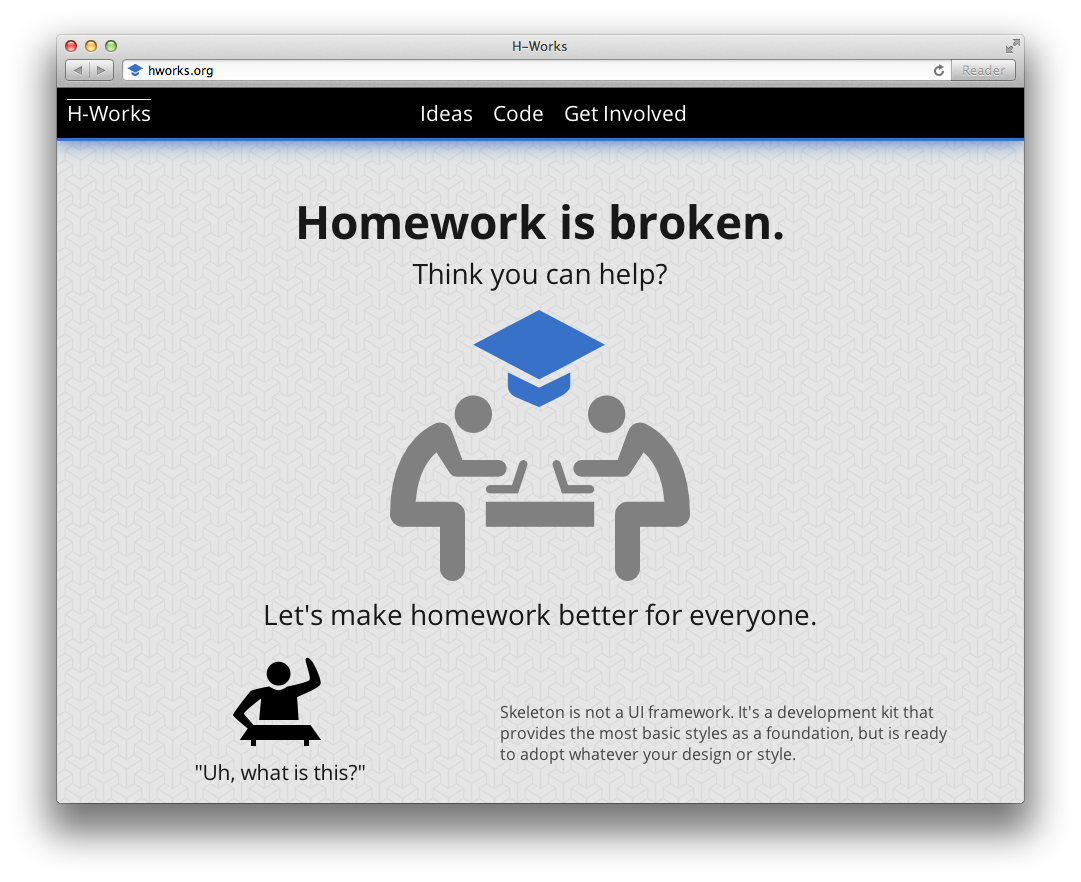
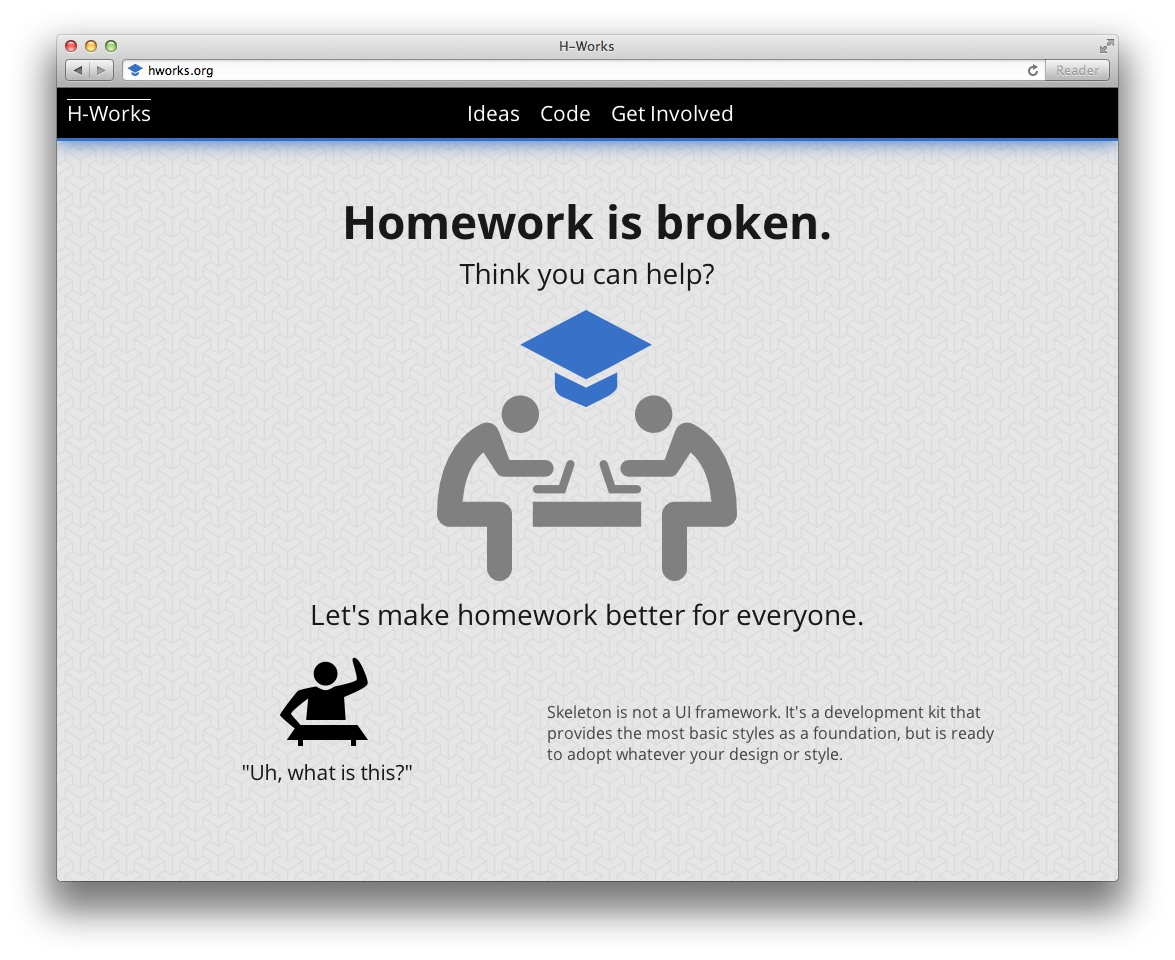
H-Works -> HWorks, work on copy.

Changed region(s): [[0.0305, 0.0306, 0.9769, 0.9184], [0.4579, 0.7347, 0.8853, 0.8571]]

diff --git a/index.html b/index.html
@@ -1,6 +1,6 @@
-<!DOCTYPE html><!--[if lt IE 7]><html class="ie ie6"></html><![endif]--><!--[if IE 7]><html class="ie ie7"></html><![endif]--><!--[if IE 8]><html class="ie ie8"></html><![endif]--><!--[if (gte IE 9)|!(IE)]]><html></html><![endif]--><head><meta charset="utf-8"><title>H-Works</title><meta name="description" content="Let's make homework work for us."><meta name="viewport" content="width=device-width, initial-scale=1, maximum-scale=1"><link rel="stylesheet" type="text/css" href="http://fonts.googleapis.com/css?family=Open+Sans:400italic,400,700"><link rel="stylesheet" href="styles/base.css"><link rel="stylesheet" href="styles/skeleton.css"><link rel="stylesheet" href="styles/layout.css"><link rel="stylesheet" href="styles/app.css"><link rel="icon" type="image/x-icon" href="favicon.ico"><!--[if lt IE 9]><script src="http://html5shim.googlecode.com/svn/trunk/html5.js"></script><![endif]--><style>a[href="index.html"] {
+<!DOCTYPE html><!--[if lt IE 7]><html class="ie ie6"></html><![endif]--><!--[if IE 7]><html class="ie ie7"></html><![endif]--><!--[if IE 8]><html class="ie ie8"></html><![endif]--><!--[if (gte IE 9)|!(IE)]]><html></html><![endif]--><head><meta charset="utf-8"><title>HWorks</title><meta name="description" content="Let's make homework work for us."><meta name="viewport" content="width=device-width, initial-scale=1, maximum-scale=1"><link rel="stylesheet" type="text/css" href="http://fonts.googleapis.com/css?family=Open+Sans:400italic,400,700"><link rel="stylesheet" href="styles/base.css"><link rel="stylesheet" href="styles/skeleton.css"><link rel="stylesheet" href="styles/layout.css"><link rel="stylesheet" href="styles/app.css"><link rel="icon" type="image/x-icon" href="favicon.ico"><!--[if lt IE 9]><script src="http://html5shim.googlecode.com/svn/trunk/html5.js"></script><![endif]--><style>a[href="index.html"] {
   text-decoration: overline !important;
 }
-</style><body><section id="navbar" class="center"><h4 id="navbar-brand" class="hidden-mobile"><a href="index.html">H-Works</a></h4><li><h4><a href="ideas.html">Ideas</a></h4></li><li><h4><a href="code.html">Code</a></h4></li><li><h4><a href="get_involved.html">Get Involved</a></h4></li></section><div class="container"><div class="sixteen columns center add-bottom"><h1 style="margin-top: 60px" class="half-bottom">Homework is broken.</h1><h3 class="add-bottom">Think you can help?</h3><img src="logo-medium.png" alt="H-Works Logo" class="half-bottom"><h3 class="add-bottom">Let's make homework better for everyone.</h3><div class="row"><div class="seven columns tile"><img src="hand-raise.svg" alt=""><h4>"Uh, what is this?"</h4></div><div class="eight columns"><p style="text-align: left; padding-top: 50px; font-size: 16px">Skeleton is not a UI framework. It's a development kit that provides
-the most basic styles as a foundation, but is ready to adopt whatever
-your design or style.</p></div></div></div><div id="footer" class="sixteen columns center"><p>Icons from <a href="http://thenounproject.com/">The Noun Project</a>, including <a href="http://thenounproject.com/garrettnelson">Garrett Nelson</a>.<br>&copy; The H-Works Collaborative. </p></div></div></body></head>
+</style><body><section id="navbar" class="center"><h4 id="navbar-brand" class="hidden-mobile"><a href="index.html">HWorks</a></h4><li><h4><a href="ideas.html">Ideas</a></h4></li><li><h4><a href="code.html">Code</a></h4></li><li><h4><a href="get_involved.html">Get Involved</a></h4></li></section><div class="container"><div class="sixteen columns center add-bottom"><h1 style="margin-top: 60px" class="half-bottom">Homework is broken.</h1><h3 class="add-bottom">Think you can help?</h3><img src="logo-medium.png" alt="H-Works Logo" class="half-bottom"><h3 class="add-bottom">Let's make homework better for everyone.</h3><div class="row"><div class="seven columns tile"><img src="hand-raise.svg" alt=""><h4>"Uh, what is this?"</h4></div><div class="eight columns"><p style="text-align: left; padding-top: 50px; font-size: 16px">It's the 21st century. <strong>Digital distractions </strong>run rampant in the lives
+of students and professionals alike, and <strong>time management </strong>is more important than
+ever before. It's about time we started building <strong>tools for our kids to succeed.</strong></p></div></div></div><div id="footer" class="sixteen columns center"><p>Icons from <a href="http://thenounproject.com/">The Noun Project</a>, including <a href="http://thenounproject.com/garrettnelson">Garrett Nelson</a>.<br>&copy; The HWorks Collaborative. </p></div></div></body></head>

diff --git a/get_involved.html b/get_involved.html
@@ -1,8 +1,8 @@
-<!DOCTYPE html><!--[if lt IE 7]><html class="ie ie6"></html><![endif]--><!--[if IE 7]><html class="ie ie7"></html><![endif]--><!--[if IE 8]><html class="ie ie8"></html><![endif]--><!--[if (gte IE 9)|!(IE)]]><html></html><![endif]--><head><meta charset="utf-8"><title>H-Works</title><meta name="description" content="Let's make homework work for us."><meta name="viewport" content="width=device-width, initial-scale=1, maximum-scale=1"><link rel="stylesheet" type="text/css" href="http://fonts.googleapis.com/css?family=Open+Sans:400italic,400,700"><link rel="stylesheet" href="styles/base.css"><link rel="stylesheet" href="styles/skeleton.css"><link rel="stylesheet" href="styles/layout.css"><link rel="stylesheet" href="styles/app.css"><link rel="icon" type="image/x-icon" href="favicon.ico"><!--[if lt IE 9]><script src="http://html5shim.googlecode.com/svn/trunk/html5.js"></script><![endif]--><style>a[href="get_involved.html"] {
+<!DOCTYPE html><!--[if lt IE 7]><html class="ie ie6"></html><![endif]--><!--[if IE 7]><html class="ie ie7"></html><![endif]--><!--[if IE 8]><html class="ie ie8"></html><![endif]--><!--[if (gte IE 9)|!(IE)]]><html></html><![endif]--><head><meta charset="utf-8"><title>HWorks</title><meta name="description" content="Let's make homework work for us."><meta name="viewport" content="width=device-width, initial-scale=1, maximum-scale=1"><link rel="stylesheet" type="text/css" href="http://fonts.googleapis.com/css?family=Open+Sans:400italic,400,700"><link rel="stylesheet" href="styles/base.css"><link rel="stylesheet" href="styles/skeleton.css"><link rel="stylesheet" href="styles/layout.css"><link rel="stylesheet" href="styles/app.css"><link rel="icon" type="image/x-icon" href="favicon.ico"><!--[if lt IE 9]><script src="http://html5shim.googlecode.com/svn/trunk/html5.js"></script><![endif]--><style>a[href="get_involved.html"] {
   text-decoration: overline !important;
 }
-</style><body><section id="navbar" class="center"><h4 id="navbar-brand" class="hidden-mobile"><a href="index.html">H-Works</a></h4><li><h4><a href="ideas.html">Ideas</a></h4></li><li><h4><a href="code.html">Code</a></h4></li><li><h4><a href="get_involved.html">Get Involved</a></h4></li></section><div class="container"><div class="sixteen columns center"><h1 style="margin-top: 60px" class="half-bottom">Homework is broken.</h1><h3 class="add-bottom">Think you can help?</h3><img src="logo-medium.png" alt="H-Works Logo" class="no-bottom"><h1>Join the collective!</h1></div><div class="eight columns tile"><img src="education.svg" alt=""><h3>Education</h3><p>Skeleton is not a UI framework. It's a development kit that provides
+</style><body><section id="navbar" class="center"><h4 id="navbar-brand" class="hidden-mobile"><a href="index.html">HWorks</a></h4><li><h4><a href="ideas.html">Ideas</a></h4></li><li><h4><a href="code.html">Code</a></h4></li><li><h4><a href="get_involved.html">Get Involved</a></h4></li></section><div class="container"><div class="sixteen columns center"><h1 style="margin-top: 60px" class="half-bottom">Homework is broken.</h1><h3 class="add-bottom">Think you can help?</h3><img src="logo-medium.png" alt="H-Works Logo" class="no-bottom"><h1>Join the collective!</h1></div><div class="eight columns tile"><img src="education.svg" alt=""><h3>Education</h3><p>Skeleton is not a UI framework. It's a development kit that provides
 the most basic styles as a foundation, but is ready to adopt whatever
 your design or style.</p></div><div class="eight columns tile"><img src="code.svg" alt=""><h3>Code</h3><p>Skeleton is not a UI framework. It's a development kit that provides
 the most basic styles as a foundation, but is ready to adopt whatever
-your design or style.</p></div><div id="footer" class="sixteen columns center"><p>Icons from <a href="http://thenounproject.com/">The Noun Project</a>, including <a href="http://thenounproject.com/garrettnelson">Garrett Nelson</a>.<br>&copy; The H-Works Collaborative. </p></div></div></body></head>
+your design or style.</p></div><div id="footer" class="sixteen columns center"><p>Icons from <a href="http://thenounproject.com/">The Noun Project</a>, including <a href="http://thenounproject.com/garrettnelson">Garrett Nelson</a>.<br>&copy; The HWorks Collaborative. </p></div></div></body></head>

diff --git a/ideas.html b/ideas.html
@@ -1,8 +1,12 @@
 <!DOCTYPE html><!--[if lt IE 7]><html class="ie ie6"></html><![endif]--><!--[if IE 7]><html class="ie ie7"></html><![endif]--><!--[if IE 8]><html class="ie ie8"></html><![endif]--><!--[if (gte IE 9)|!(IE)]]><html></html><![endif]--><head><meta charset="utf-8"><title>Ideas</title><meta name="description" content="Let's make homework work for us."><meta name="viewport" content="width=device-width, initial-scale=1, maximum-scale=1"><link rel="stylesheet" type="text/css" href="http://fonts.googleapis.com/css?family=Open+Sans:400italic,400,700"><link rel="stylesheet" href="styles/base.css"><link rel="stylesheet" href="styles/skeleton.css"><link rel="stylesheet" href="styles/layout.css"><link rel="stylesheet" href="styles/app.css"><link rel="icon" type="image/x-icon" href="favicon.ico"><!--[if lt IE 9]><script src="http://html5shim.googlecode.com/svn/trunk/html5.js"></script><![endif]--><style>a[href="ideas.html"] {
   text-decoration: overline !important;
 }
-</style><body><section id="navbar" class="center"><h4 id="navbar-brand" class="hidden-mobile"><a href="index.html">H-Works</a></h4><li><h4><a href="ideas.html">Ideas</a></h4></li><li><h4><a href="code.html">Code</a></h4></li><li><h4><a href="get_involved.html">Get Involved</a></h4></li></section><div class="container"><div class="sixteen columns center"><h1 style="margin-top: 60px" class="half-bottom">Here's some ideas:</h1><h3 class="add-bottom">Think you can help?</h3></div><div class="eight columns tile"><img src="education.svg" alt=""><h3>Education</h3><p>Skeleton is not a UI framework. It's a development kit that provides
-the most basic styles as a foundation, but is ready to adopt whatever
-your design or style.</p></div><div class="eight columns tile"><img src="code.svg" alt=""><h3>Code</h3><p>Skeleton is not a UI framework. It's a development kit that provides
-the most basic styles as a foundation, but is ready to adopt whatever
-your design or style.</p></div><div id="footer" class="sixteen columns center"><p>Icons from <a href="http://thenounproject.com/">The Noun Project</a>, including <a href="http://thenounproject.com/garrettnelson">Garrett Nelson</a>.<br>&copy; The H-Works Collaborative. </p></div></div></body></head>
+</style><body><section id="navbar" class="center"><h4 id="navbar-brand" class="hidden-mobile"><a href="index.html">HWorks</a></h4><li><h4><a href="ideas.html">Ideas</a></h4></li><li><h4><a href="code.html">Code</a></h4></li><li><h4><a href="get_involved.html">Get Involved</a></h4></li></section><div class="container"><div class="sixteen columns center"><h1 style="margin-top: 60px" class="half-bottom">Homework &ne; headache.</h1><h3 class="add-bottom">Here are some core values we think homework management needs to embody.</h3></div><div class="row"><div class="eight columns tile"><img src="coordination.svg" alt=""><h3>One source of truth.</h3><p>Homework comes at kids from all directions. Orally in class, class wikis, 
+and as class hand-outs. Any digital approach
+to homework management should seek to minimize redundancy and conflict.</p></div><div class="eight columns tile"><img src="marriage.svg" alt=""><h3>Seamlessly integrated.</h3><p>Homework should work with the teachers and school assigning it -- not
+against them. Minimize re-training costs by plugging into existing systems
+and routines where possible and practical.</p></div></div><div class="row"><div class="eight columns tile"><img src="sort.svg" alt=""><h3>Naturally prioritized.</h3><p>Real-life schedules are never as simplistic as we expect
+them to be.<br><br>Homework management should focus on building schedules that promote
+effective time management, while still following deadlines.</p></div><div class="eight columns tile"><img src="document.svg" alt=""><h3>Intuitive &amp; streamlined.</h3><p>Managing your academic life using digital tools shouldn't
+require a manual or a tutorial.<br><br>Aim to be as simple as
+a pencil and paper to-do list.</p></div></div><div id="footer" class="sixteen columns center"><p>Icons from <a href="http://thenounproject.com/">The Noun Project</a>, including <a href="http://thenounproject.com/garrettnelson">Garrett Nelson</a>.<br>&copy; The HWorks Collaborative. </p></div></div></body></head>

diff --git a/code.html b/code.html
@@ -1,8 +1,8 @@
 <!DOCTYPE html><!--[if lt IE 7]><html class="ie ie6"></html><![endif]--><!--[if IE 7]><html class="ie ie7"></html><![endif]--><!--[if IE 8]><html class="ie ie8"></html><![endif]--><!--[if (gte IE 9)|!(IE)]]><html></html><![endif]--><head><meta charset="utf-8"><title>Code</title><meta name="description" content="Let's make homework work for us."><meta name="viewport" content="width=device-width, initial-scale=1, maximum-scale=1"><link rel="stylesheet" type="text/css" href="http://fonts.googleapis.com/css?family=Open+Sans:400italic,400,700"><link rel="stylesheet" href="styles/base.css"><link rel="stylesheet" href="styles/skeleton.css"><link rel="stylesheet" href="styles/layout.css"><link rel="stylesheet" href="styles/app.css"><link rel="icon" type="image/x-icon" href="favicon.ico"><!--[if lt IE 9]><script src="http://html5shim.googlecode.com/svn/trunk/html5.js"></script><![endif]--><style>a[href="code.html"] {
   text-decoration: overline !important;
 }
-</style><body><section id="navbar" class="center"><h4 id="navbar-brand" class="hidden-mobile"><a href="index.html">H-Works</a></h4><li><h4><a href="ideas.html">Ideas</a></h4></li><li><h4><a href="code.html">Code</a></h4></li><li><h4><a href="get_involved.html">Get Involved</a></h4></li></section><div class="container"><div class="sixteen columns center"><h1 style="margin-top: 60px" class="half-bottom">Sharing ideas, sharing code.</h1><h3 class="add-bottom">H-Works loves open-source code.</h3></div><div class="eight columns tile"><img src="hworks-screenshot.png" width="137" height="109" alt=""><h3>Education</h3><p>Skeleton is not a UI framework. It's a development kit that provides
+</style><body><section id="navbar" class="center"><h4 id="navbar-brand" class="hidden-mobile"><a href="index.html">HWorks</a></h4><li><h4><a href="ideas.html">Ideas</a></h4></li><li><h4><a href="code.html">Code</a></h4></li><li><h4><a href="get_involved.html">Get Involved</a></h4></li></section><div class="container"><div class="sixteen columns center"><h1 style="margin-top: 60px" class="half-bottom">Sharing ideas, sharing code.</h1><h3 class="add-bottom">HWorks loves open-source code.</h3></div><div class="eight columns tile"><img src="keeba-screenshot.png" width="150" height="123" alt=""><h3>Keeba</h3><p>Skeleton is not a UI framework. It's a development kit that provides
 the most basic styles as a foundation, but is ready to adopt whatever
-your design or style.</p></div><div class="eight columns tile"><img src="code.svg" alt=""><h3>Code</h3><p>Skeleton is not a UI framework. It's a development kit that provides
+your design or style.</p></div><div class="eight columns tile"><img src="hworks-screenshot.png" width="150" height="123" alt=""><h3>HWorks</h3><p>Skeleton is not a UI framework. It's a development kit that provides
 the most basic styles as a foundation, but is ready to adopt whatever
-your design or style.</p></div><div id="footer" class="sixteen columns center"><p>Icons from <a href="http://thenounproject.com/">The Noun Project</a>, including <a href="http://thenounproject.com/garrettnelson">Garrett Nelson</a>.<br>&copy; The H-Works Collaborative. </p></div></div></body></head>
+your design or style.</p></div><div id="footer" class="sixteen columns center"><p>Icons from <a href="http://thenounproject.com/">The Noun Project</a>, including <a href="http://thenounproject.com/garrettnelson">Garrett Nelson</a>.<br>&copy; The HWorks Collaborative. </p></div></div></body></head>

diff --git a/base.html b/base.html
@@ -1,1 +1,1 @@
-<!DOCTYPE html><!--[if lt IE 7]><html class="ie ie6"></html><![endif]--><!--[if IE 7]><html class="ie ie7"></html><![endif]--><!--[if IE 8]><html class="ie ie8"></html><![endif]--><!--[if (gte IE 9)|!(IE)]]><html></html><![endif]--><head><meta charset="utf-8"><title>H-Works</title><meta name="description" content="Let's make homework work for us."><meta name="viewport" content="width=device-width, initial-scale=1, maximum-scale=1"><link rel="stylesheet" type="text/css" href="http://fonts.googleapis.com/css?family=Open+Sans:400italic,400,700"><link rel="stylesheet" href="styles/base.css"><link rel="stylesheet" href="styles/skeleton.css"><link rel="stylesheet" href="styles/layout.css"><link rel="stylesheet" href="styles/app.css"><link rel="icon" type="image/x-icon" href="favicon.ico"><!--[if lt IE 9]><script src="http://html5shim.googlecode.com/svn/trunk/html5.js"></script><![endif]--><body><section id="navbar" class="center"><h4 id="navbar-brand" class="hidden-mobile"><a href="index.html">H-Works</a></h4><li><h4><a href="ideas.html">Ideas</a></h4></li><li><h4><a href="code.html">Code</a></h4></li><li><h4><a href="get_involved.html">Get Involved</a></h4></li></section><div class="container"><div id="footer" class="sixteen columns center"><p>Icons from <a href="http://thenounproject.com/">The Noun Project</a>, including <a href="http://thenounproject.com/garrettnelson">Garrett Nelson</a>.<br>&copy; The H-Works Collaborative. </p></div></div></body></head>
+<!DOCTYPE html><!--[if lt IE 7]><html class="ie ie6"></html><![endif]--><!--[if IE 7]><html class="ie ie7"></html><![endif]--><!--[if IE 8]><html class="ie ie8"></html><![endif]--><!--[if (gte IE 9)|!(IE)]]><html></html><![endif]--><head><meta charset="utf-8"><title>HWorks</title><meta name="description" content="Let's make homework work for us."><meta name="viewport" content="width=device-width, initial-scale=1, maximum-scale=1"><link rel="stylesheet" type="text/css" href="http://fonts.googleapis.com/css?family=Open+Sans:400italic,400,700"><link rel="stylesheet" href="styles/base.css"><link rel="stylesheet" href="styles/skeleton.css"><link rel="stylesheet" href="styles/layout.css"><link rel="stylesheet" href="styles/app.css"><link rel="icon" type="image/x-icon" href="favicon.ico"><!--[if lt IE 9]><script src="http://html5shim.googlecode.com/svn/trunk/html5.js"></script><![endif]--><body><section id="navbar" class="center"><h4 id="navbar-brand" class="hidden-mobile"><a href="index.html">HWorks</a></h4><li><h4><a href="ideas.html">Ideas</a></h4></li><li><h4><a href="code.html">Code</a></h4></li><li><h4><a href="get_involved.html">Get Involved</a></h4></li></section><div class="container"><div id="footer" class="sixteen columns center"><p>Icons from <a href="http://thenounproject.com/">The Noun Project</a>, including <a href="http://thenounproject.com/garrettnelson">Garrett Nelson</a>.<br>&copy; The HWorks Collaborative. </p></div></div></body></head>

diff --git a/footer.html b/footer.html
@@ -1,1 +1,1 @@
-<div id="footer" class="sixteen columns center"><p>Icons from <a href="http://thenounproject.com/">The Noun Project</a>, including <a href="http://thenounproject.com/garrettnelson">Garrett Nelson</a>.<br/>&copy; The H-Works Collaborative. </p></div>
+<div id="footer" class="sixteen columns center"><p>Icons from <a href="http://thenounproject.com/">The Noun Project</a>, including <a href="http://thenounproject.com/garrettnelson">Garrett Nelson</a>.<br/>&copy; The HWorks Collaborative. </p></div>
